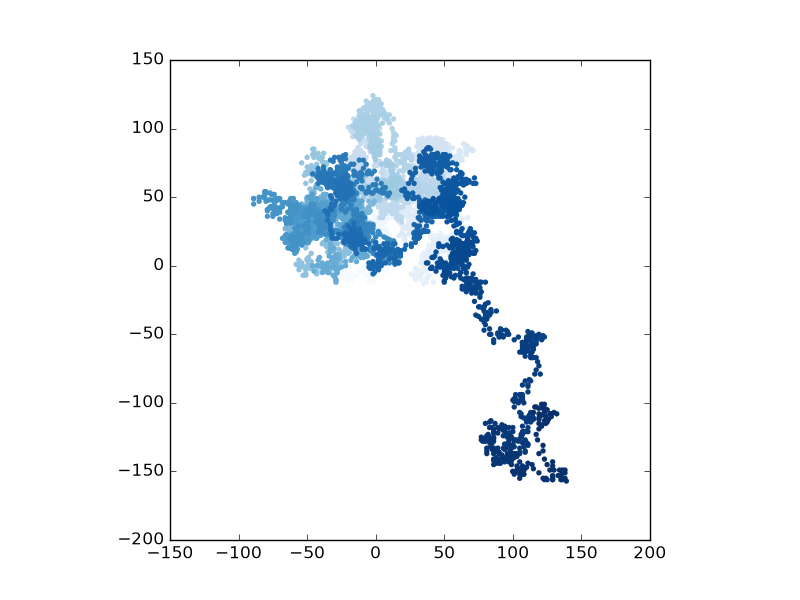
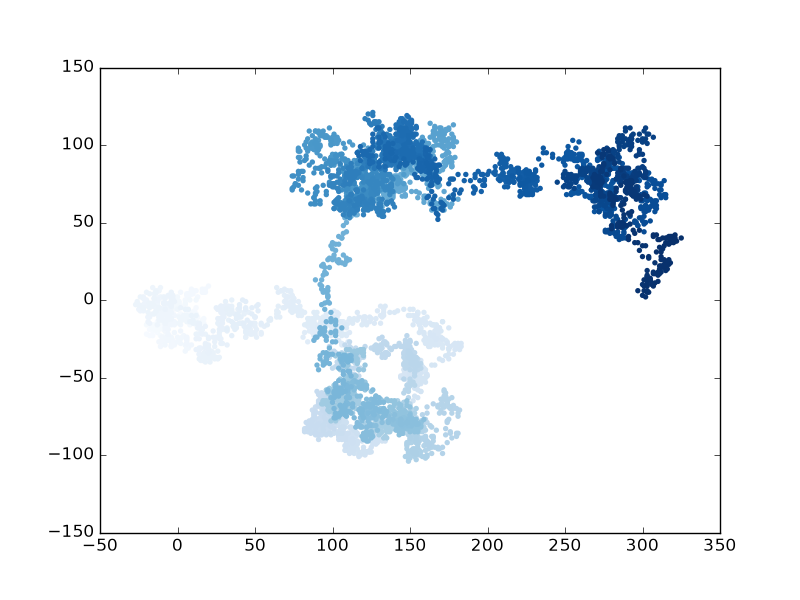
update website

diff --git a/rw_visual.py b/rw_visual.py
@@ -4,16 +4,22 @@ from random_walk import RandomWalk
 
 while True:
 
-    rw = RandomWalk()
+    rw = RandomWalk(50_000)
     rw.fill_walk()
 
     plt.style.use('classic')
     fig, ax = plt.subplots()
     point_numbers = range(rw.num_points)
-    ax.scatter(rw.x_values, rw.y_values, c=point_numbers, cmap=plt.cm.Blues, edgecolors='none', s=15)
+    ax.scatter(rw.x_values, rw.y_values, c=point_numbers, cmap=plt.cm.Blues, edgecolors='none', s=1)
     ax.set_aspect('equal')
 
-    plt.savefig('image/rw_visual2.png')
+    ax.scatter(0, 0, c='green', edgecolors='none', s=100)
+    ax.scatter(rw.x_values[-1], rw.y_values[-1], c='red', edgecolors='none', s=100) 
+
+    ax.get_xaxis().set_visible(False)
+    ax.get_yaxis().set_visible(False)
+
+    plt.savefig('image/rw_visual3.png')
     plt.show()
 
     keep_running = input("Make another walk? (y/n): ")
